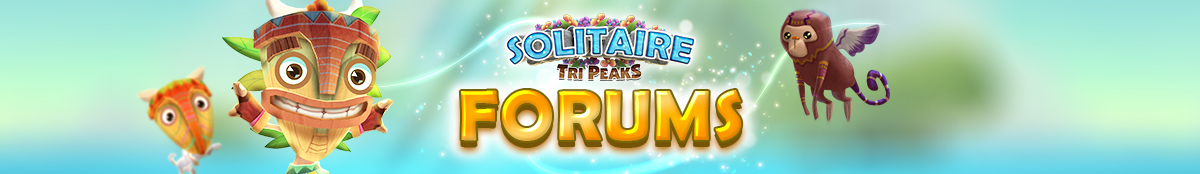
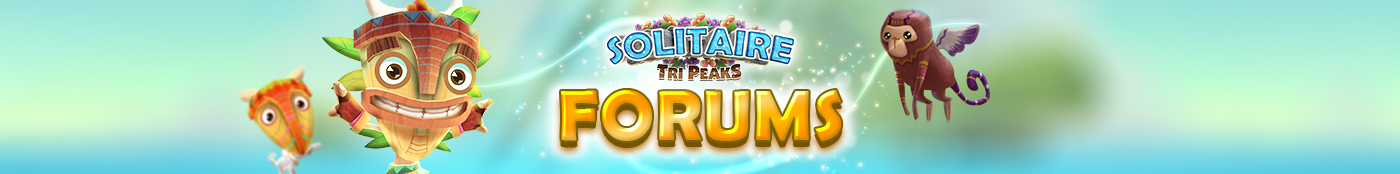
Add background color to larger header

diff --git a/common/common.scss b/common/common.scss
@@ -80,6 +80,8 @@ a.badge-wrapper {
 @media (min-width: 1000px) {
   .header-main {
     background: url($main-header) top center no-repeat;
+    background-color: #50b69c;
+    background-size: cover;
   }
 }
 
